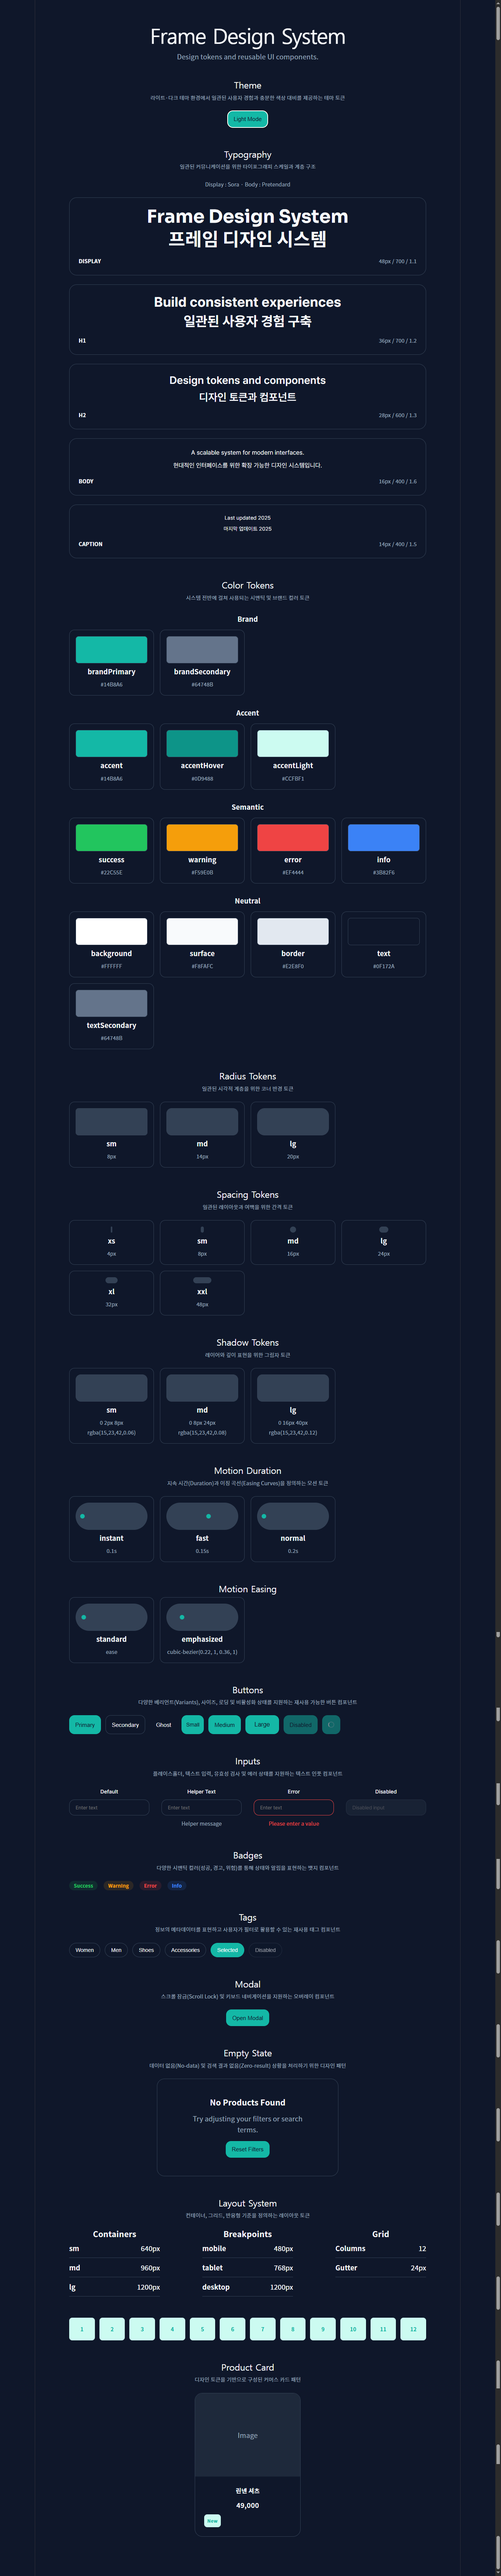
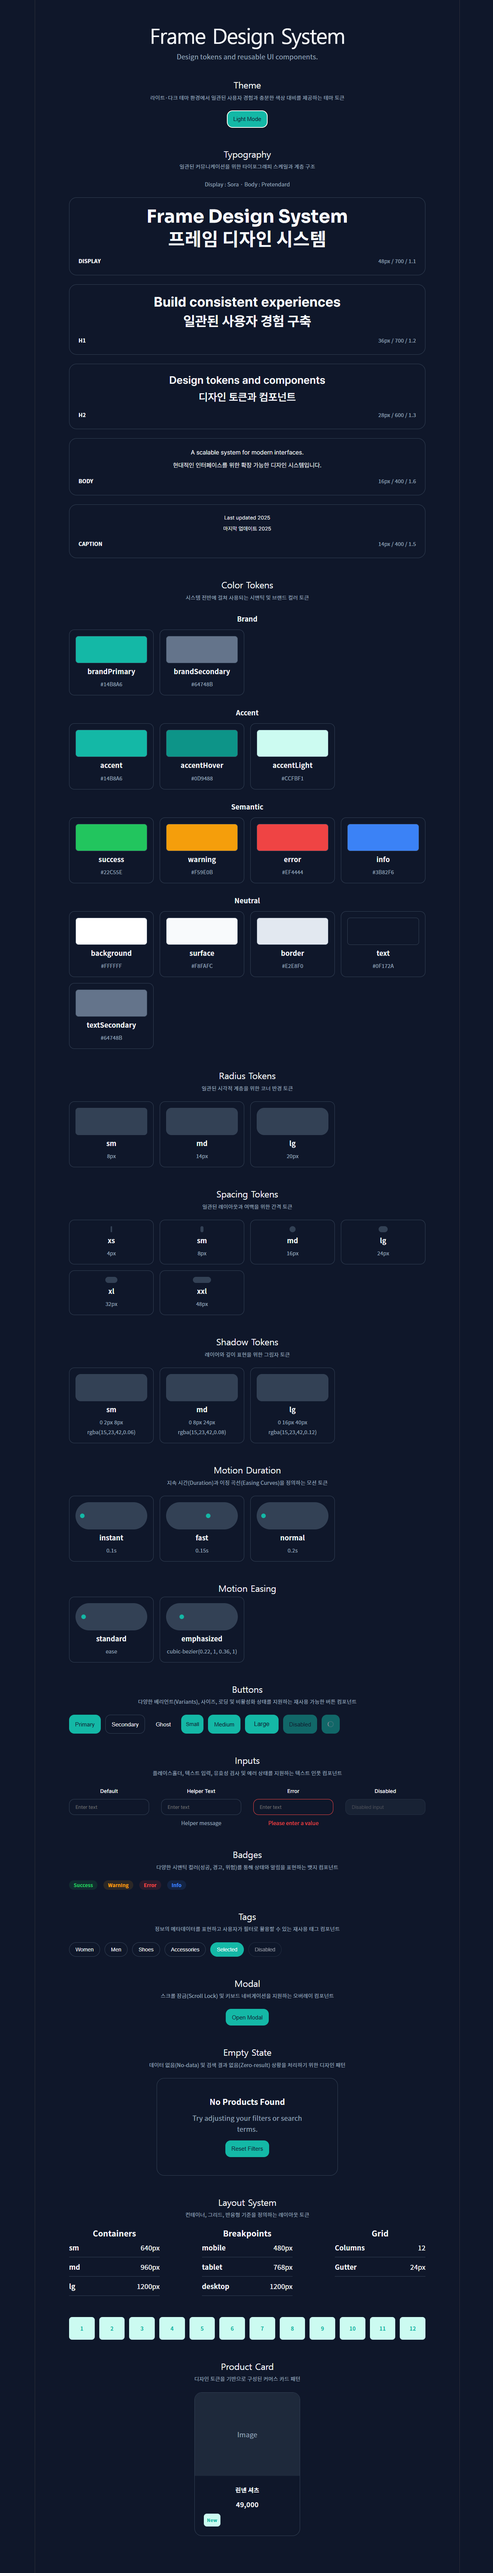
readme casestudy

diff --git a/README.md b/README.md
@@ -309,6 +309,6 @@ SLI Scientific의 사용 맥락에 맞춰 다음 부분을 확장했습니다.
 이를 통해 디자인 토큰과 컴포넌트 원칙이
 실제 B2B 플랫폼의 화면과 인터랙션에 어떻게 적용되는지 검증했습니다.
 
-- [Live SLI Scientific](platform-redesign-five.vercel.app)
+- [Live SLI Scientific](https://platform-redesign-five.vercel.app)
 
 ---

diff --git a/docs/case-study.md b/docs/case-study.md
@@ -618,5 +618,5 @@ SLI Scientific
 
 ## Links
 
-- [Live Demo](frame-design-system.vercel.app/)
-- [SLI Scientific Project](platform-redesign-five.vercel.app)
+- [Live Demo](http://frame-design-system.vercel.app/)
+- [SLI Scientific Project](http://platform-redesign-five.vercel.app)
